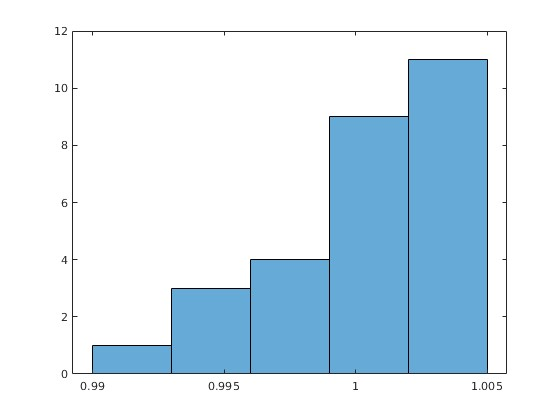
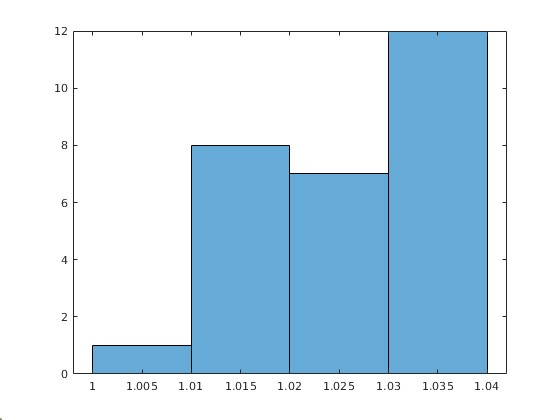
Add files via upload

diff --git a/mnist.m b/mnist.m
@@ -19,7 +19,7 @@ YTest = test.labels;
 XTestF = reshape(XTest,[n*m,lts]);
 
 %% Continous learning
-k=3; %6;
+k=1; %6;
 sub_len = l/k;
 
 for i = 1:k
@@ -78,8 +78,12 @@ t_out=t_in;
 ini_rate = 0.0002; 
 max_epoch = 100;
 
-modelName = 'mnist_ae_relu';
-modelFile = strcat(modelName, '.', string(i), '.mat');
+modelName = 'mnist_ae_vt';
+if k == 1
+    modelFile = strcat(modelName, '.mat');
+else
+    modelFile = strcat(modelName, '.', string(i), '.mat');
+end
 
 %%
 if isfile(modelFile)
@@ -123,6 +127,9 @@ end
 % end of contionous learning
 end
 
+%% LrReLU weights
+histogram(regNet.lGraph.Layers(5,1).A) %28
+histogram(regNet.lGraph.Layers(7,1).A) %43905
 
 %% activations
         % GPU on
